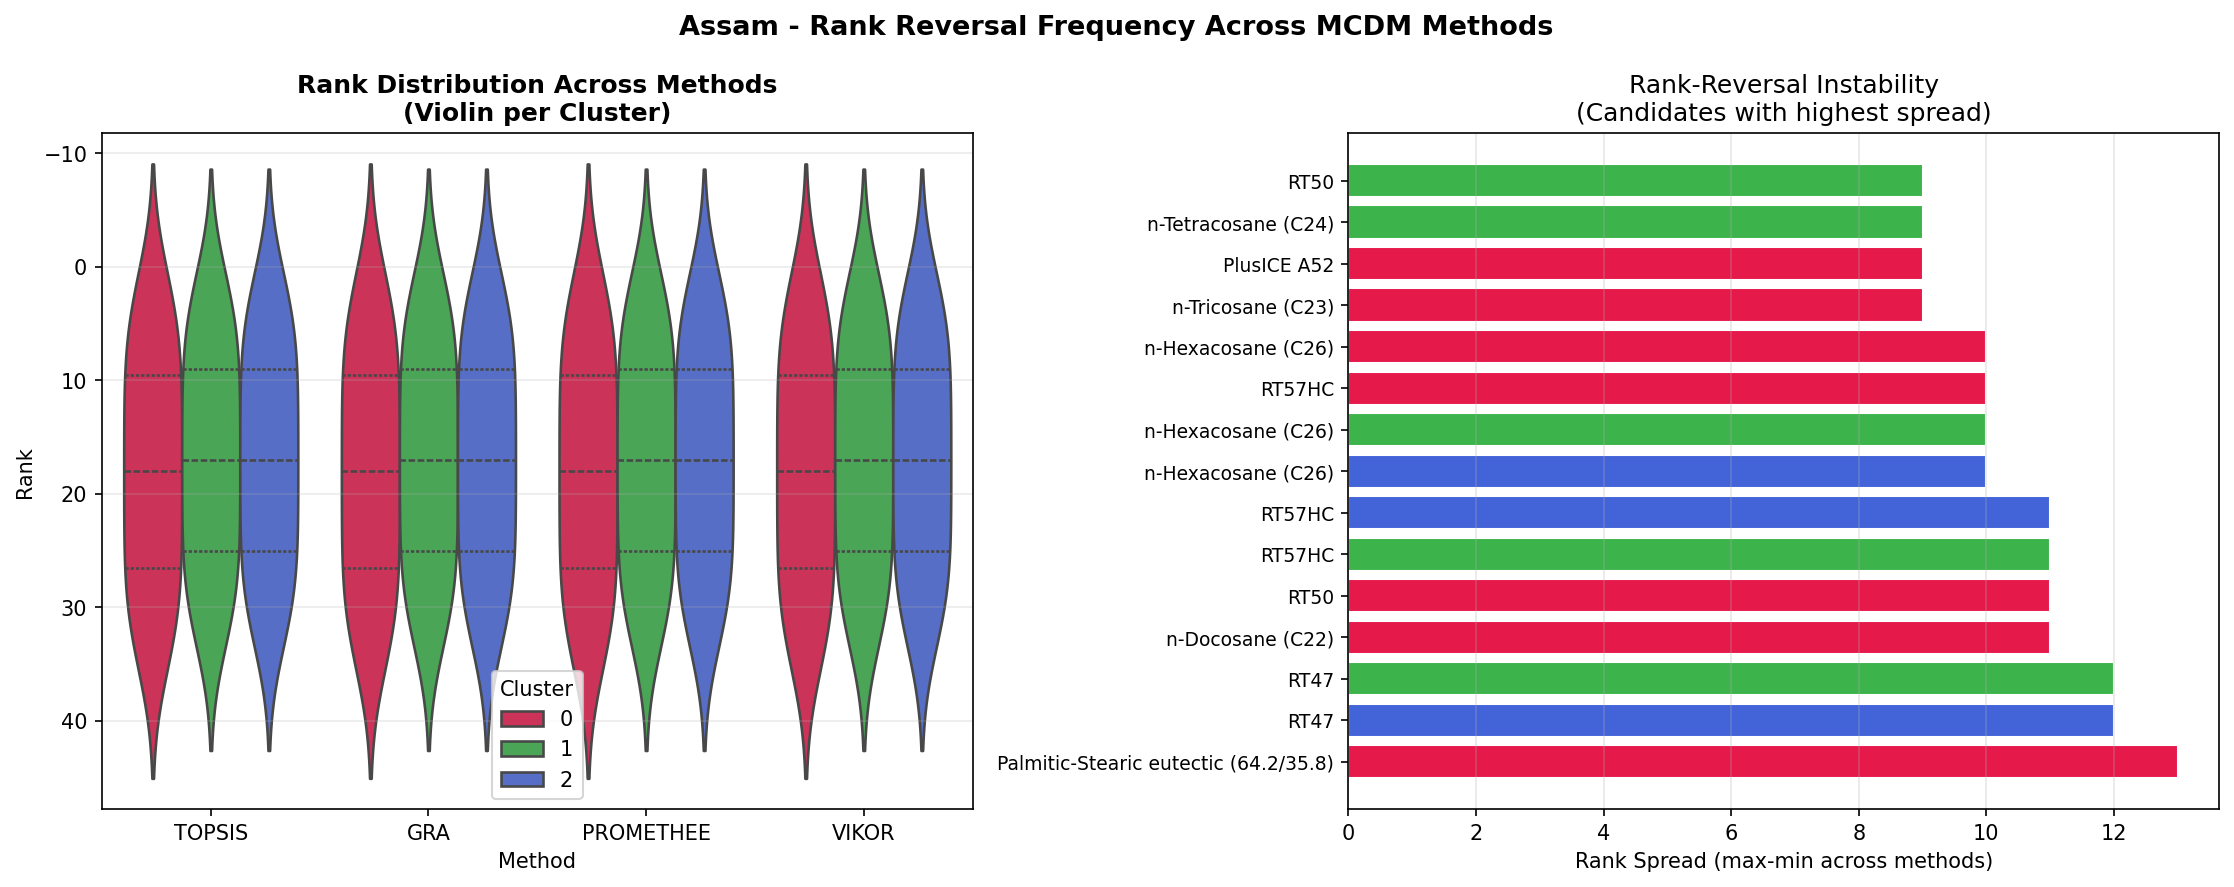
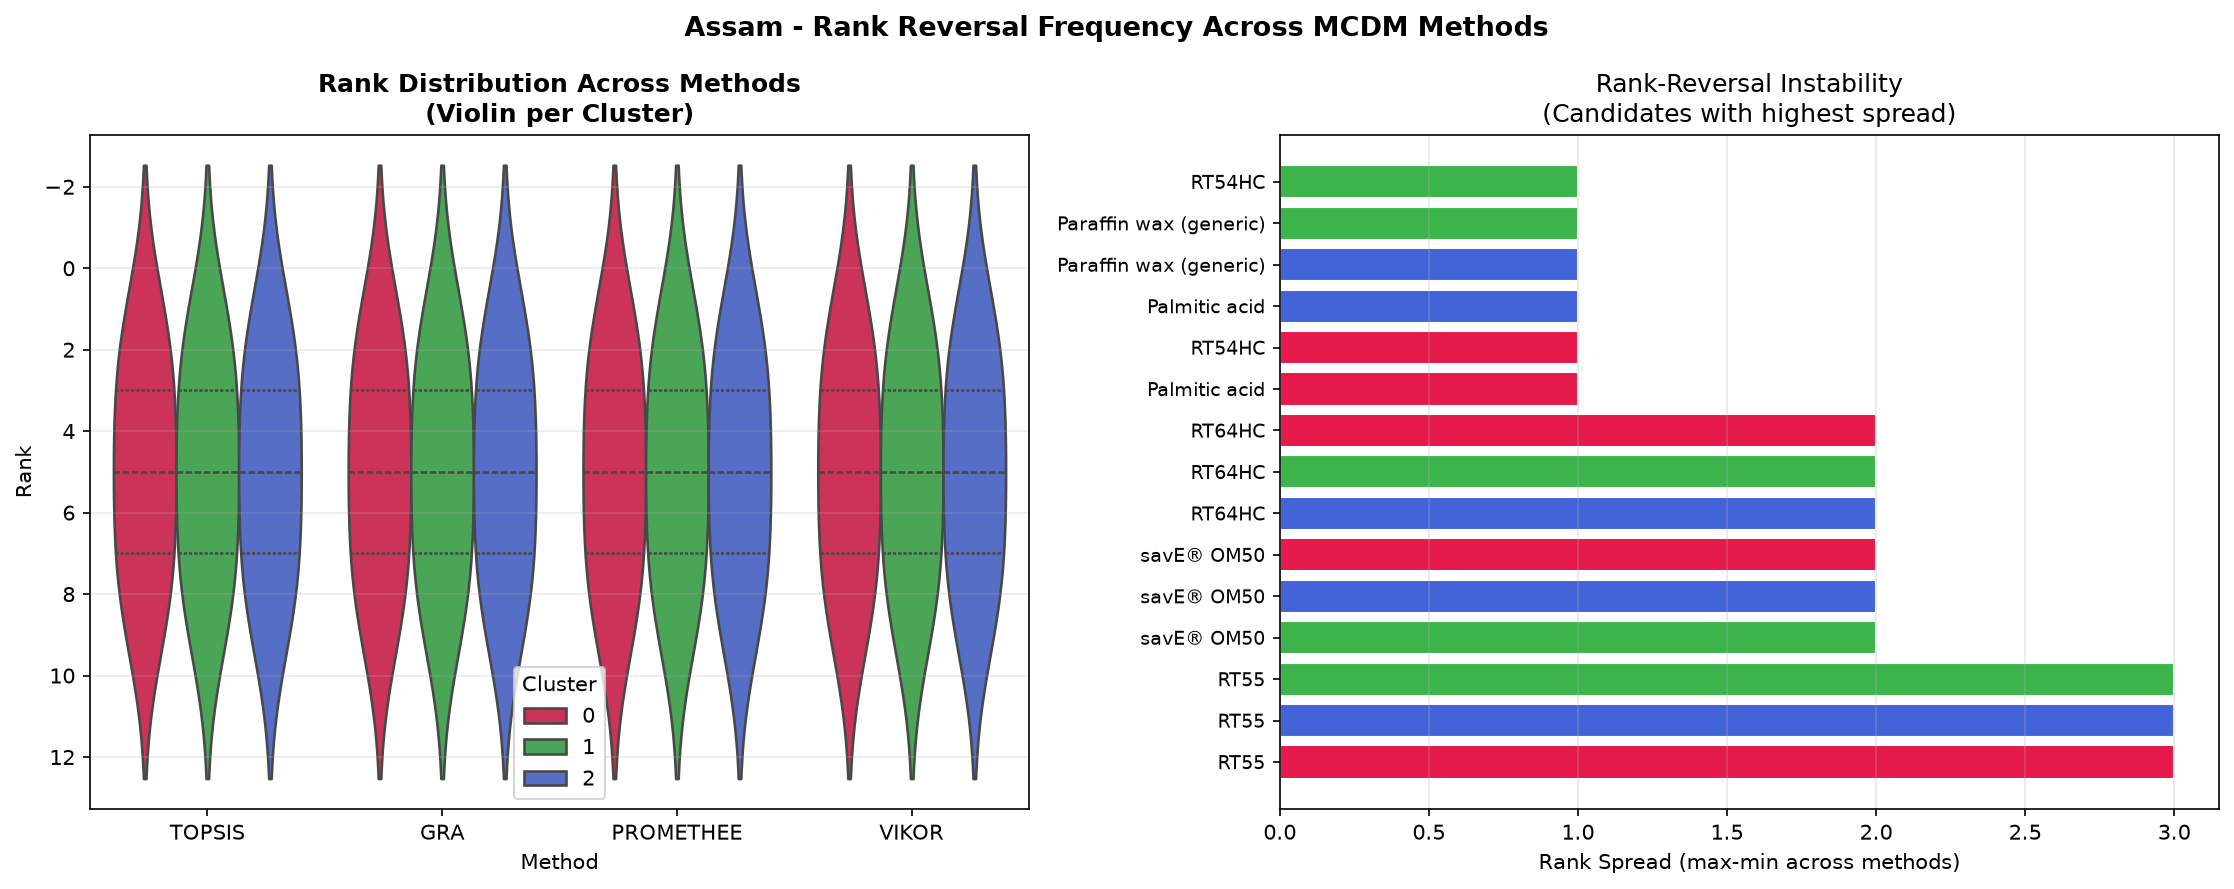
chore(plots): update Assam rank-reversal plot

diff --git a/public/plots/assam/10_rank_reversal_violin_interactive.html b/public/plots/assam/10_rank_reversal_violin_interactive.html
@@ -6,6 +6,6 @@
 </head>
 <body>
     <div style="height:100%; width:100%;">                        <script>window.PlotlyConfig = {MathJaxConfig: 'local'};</script>
[1 lines of base64/hex data omitted]
+        <script charset="utf-8" src="https://cdn.plot.ly/plotly-4.0.0.min.js" integrity="sha256-FEYfO0yRyLtZCpnW0Dw/0DHKQO7Afrq3ml4+rBB818o=" crossorigin="anonymous"></script>                <div id="f57c498c-f7b7-42a6-baa4-5ea0f8b99e32" class="plotly-graph-div" style="height:100%; width:100%;"></div>            <script>                window.PLOTLYENV=window.PLOTLYENV || {};                                if (document.getElementById("f57c498c-f7b7-42a6-baa4-5ea0f8b99e32")) {                    Plotly.newPlot(                        "f57c498c-f7b7-42a6-baa4-5ea0f8b99e32",                        [{"alignmentgroup":"True","box":{"visible":true},"hovertemplate":"Cluster=0\u003cbr\u003eMethod=%{x}\u003cbr\u003eRank=%{y}\u003cextra\u003e\u003c\u002fextra\u003e","legendgroup":"0","marker":{"color":"rgb(228,26,28)"},"name":"0","offsetgroup":"0","orientation":"v","points":"all","scalegroup":"True","showlegend":true,"x":["TOPSIS","TOPSIS","TOPSIS","TOPSIS","TOPSIS","TOPSIS","TOPSIS","TOPSIS","TOPSIS","GRA","GRA","GRA","GRA","GRA","GRA","GRA","GRA","GRA","PROMETHEE","PROMETHEE","PROMETHEE","PROMETHEE","PROMETHEE","PROMETHEE","PROMETHEE","PROMETHEE","PROMETHEE","VIKOR","VIKOR","VIKOR","VIKOR","VIKOR","VIKOR","VIKOR","VIKOR","VIKOR"],"x0":" ","xaxis":"x","y":{"dtype":"i1","bdata":"AQMEAgUGBwgJAgQBAwUGBwgJAQIDBAUGBwgJAQIDBAUGBwkI"},"y0":" ","yaxis":"y","type":"violin"},{"alignmentgroup":"True","box":{"visible":true},"hovertemplate":"Cluster=1\u003cbr\u003eMethod=%{x}\u003cbr\u003eRank=%{y}\u003cextra\u003e\u003c\u002fextra\u003e","legendgroup":"1","marker":{"color":"rgb(55,126,184)"},"name":"1","offsetgroup":"1","orientation":"v","points":"all","scalegroup":"True","showlegend":true,"x":["TOPSIS","TOPSIS","TOPSIS","TOPSIS","TOPSIS","TOPSIS","TOPSIS","TOPSIS","TOPSIS","GRA","GRA","GRA","GRA","GRA","GRA","GRA","GRA","GRA","PROMETHEE","PROMETHEE","PROMETHEE","PROMETHEE","PROMETHEE","PROMETHEE","PROMETHEE","PROMETHEE","PROMETHEE","VIKOR","VIKOR","VIKOR","VIKOR","VIKOR","VIKOR","VIKOR","VIKOR","VIKOR"],"x0":" ","xaxis":"x","y":{"dtype":"i1","bdata":"AQMEAgUGBwgJAgQBAwUGBwgJAQIDBAUGBwgJAQIDBAUGBwkI"},"y0":" ","yaxis":"y","type":"violin"},{"alignmentgroup":"True","box":{"visible":true},"hovertemplate":"Cluster=2\u003cbr\u003eMethod=%{x}\u003cbr\u003eRank=%{y}\u003cextra\u003e\u003c\u002fextra\u003e","legendgroup":"2","marker":{"color":"rgb(77,175,74)"},"name":"2","offsetgroup":"2","orientation":"v","points":"all","scalegroup":"True","showlegend":true,"x":["TOPSIS","TOPSIS","TOPSIS","TOPSIS","TOPSIS","TOPSIS","TOPSIS","TOPSIS","TOPSIS","GRA","GRA","GRA","GRA","GRA","GRA","GRA","GRA","GRA","PROMETHEE","PROMETHEE","PROMETHEE","PROMETHEE","PROMETHEE","PROMETHEE","PROMETHEE","PROMETHEE","PROMETHEE","VIKOR","VIKOR","VIKOR","VIKOR","VIKOR","VIKOR","VIKOR","VIKOR","VIKOR"],"x0":" ","xaxis":"x","y":{"dtype":"i1","bdata":"AQMEAgUGBwgJAgQBAwUGBwgJAQIDBAUGBwgJAQIDBAUGBwkI"},"y0":" ","yaxis":"y","type":"violin"}],                        {"template":{"data":{"barpolar":[{"marker":{"line":{"color":"white","width":0.5},"pattern":{"fillmode":"overlay","size":10,"solidity":0.2}},"type":"barpolar"}],"bar":[{"error_x":{"color":"#2a3f5f"},"error_y":{"color":"#2a3f5f"},"marker":{"line":{"color":"white","width":0.5},"pattern":{"fillmode":"overlay","size":10,"solidity":0.2}},"type":"bar"}],"carpet":[{"aaxis":{"endlinecolor":"#2a3f5f","gridcolor":"#C8D4E3","linecolor":"#C8D4E3","minorgridcolor":"#C8D4E3","startlinecolor":"#2a3f5f"},"baxis":{"endlinecolor":"#2a3f5f","gridcolor":"#C8D4E3","linecolor":"#C8D4E3","minorgridcolor":"#C8D4E3","startlinecolor":"#2a3f5f"},"type":"carpet"}],"choropleth":[{"colorbar":{"outlinewidth":0,"ticks":""},"type":"choropleth"}],"contourcarpet":[{"colorbar":{"outlinewidth":0,"ticks":""},"type":"contourcarpet"}],"contour":[{"colorbar":{"outlinewidth":0,"ticks":""},"colorscale":[[0.0,"#0d0887"],[0.1111111111111111,"#46039f"],[0.2222222222222222,"#7201a8"],[0.3333333333333333,"#9c179e"],[0.4444444444444444,"#bd3786"],[0.5555555555555556,"#d8576b"],[0.6666666666666666,"#ed7953"],[0.7777777777777778,"#fb9f3a"],[0.8888888888888888,"#fdca26"],[1.0,"#f0f921"]],"type":"contour"}],"heatmap":[{"colorbar":{"outlinewidth":0,"ticks":""},"colorscale":[[0.0,"#0d0887"],[0.1111111111111111,"#46039f"],[0.2222222222222222,"#7201a8"],[0.3333333333333333,"#9c179e"],[0.4444444444444444,"#bd3786"],[0.5555555555555556,"#d8576b"],[0.6666666666666666,"#ed7953"],[0.7777777777777778,"#fb9f3a"],[0.8888888888888888,"#fdca26"],[1.0,"#f0f921"]],"type":"heatmap"}],"histogram2dcontour":[{"colorbar":{"outlinewidth":0,"ticks":""},"colorscale":[[0.0,"#0d0887"],[0.1111111111111111,"#46039f"],[0.2222222222222222,"#7201a8"],[0.3333333333333333,"#9c179e"],[0.4444444444444444,"#bd3786"],[0.5555555555555556,"#d8576b"],[0.6666666666666666,"#ed7953"],[0.7777777777777778,"#fb9f3a"],[0.8888888888888888,"#fdca26"],[1.0,"#f0f921"]],"type":"histogram2dcontour"}],"histogram2d":[{"colorbar":{"outlinewidth":0,"ticks":""},"colorscale":[[0.0,"#0d0887"],[0.1111111111111111,"#46039f"],[0.2222222222222222,"#7201a8"],[0.3333333333333333,"#9c179e"],[0.4444444444444444,"#bd3786"],[0.5555555555555556,"#d8576b"],[0.6666666666666666,"#ed7953"],[0.7777777777777778,"#fb9f3a"],[0.8888888888888888,"#fdca26"],[1.0,"#f0f921"]],"type":"histogram2d"}],"histogram":[{"marker":{"pattern":{"fillmode":"overlay","size":10,"solidity":0.2}},"type":"histogram"}],"mesh3d":[{"colorbar":{"outlinewidth":0,"ticks":""},"type":"mesh3d"}],"parcoords":[{"line":{"colorbar":{"outlinewidth":0,"ticks":""}},"type":"parcoords"}],"pie":[{"automargin":true,"type":"pie"}],"scatter3d":[{"line":{"colorbar":{"outlinewidth":0,"ticks":""}},"marker":{"colorbar":{"outlinewidth":0,"ticks":""}},"type":"scatter3d"}],"scattercarpet":[{"marker":{"colorbar":{"outlinewidth":0,"ticks":""}},"type":"scattercarpet"}],"scattergeo":[{"marker":{"colorbar":{"outlinewidth":0,"ticks":""}},"type":"scattergeo"}],"scattergl":[{"marker":{"colorbar":{"outlinewidth":0,"ticks":""}},"type":"scattergl"}],"scattermap":[{"marker":{"colorbar":{"outlinewidth":0,"ticks":""}},"type":"scattermap"}],"scatterpolargl":[{"marker":{"colorbar":{"outlinewidth":0,"ticks":""}},"type":"scatterpolargl"}],"scatterpolar":[{"marker":{"colorbar":{"outlinewidth":0,"ticks":""}},"type":"scatterpolar"}],"scatter":[{"fillpattern":{"fillmode":"overlay","size":10,"solidity":0.2},"type":"scatter"}],"scatterternary":[{"marker":{"colorbar":{"outlinewidth":0,"ticks":""}},"type":"scatterternary"}],"surface":[{"colorbar":{"outlinewidth":0,"ticks":""},"colorscale":[[0.0,"#0d0887"],[0.1111111111111111,"#46039f"],[0.2222222222222222,"#7201a8"],[0.3333333333333333,"#9c179e"],[0.4444444444444444,"#bd3786"],[0.5555555555555556,"#d8576b"],[0.6666666666666666,"#ed7953"],[0.7777777777777778,"#fb9f3a"],[0.8888888888888888,"#fdca26"],[1.0,"#f0f921"]],"type":"surface"}],"table":[{"cells":{"fill":{"color":"#EBF0F8"},"line":{"color":"white"}},"header":{"fill":{"color":"#C8D4E3"},"line":{"color":"white"}},"type":"table"}]},"layout":{"annotationdefaults":{"arrowcolor":"#2a3f5f","arrowhead":0,"arrowwidth":1},"autotypenumbers":"strict","coloraxis":{"colorbar":{"outlinewidth":0,"ticks":""}},"colorscale":{"diverging":[[0,"#8e0152"],[0.1,"#c51b7d"],[0.2,"#de77ae"],[0.3,"#f1b6da"],[0.4,"#fde0ef"],[0.5,"#f7f7f7"],[0.6,"#e6f5d0"],[0.7,"#b8e186"],[0.8,"#7fbc41"],[0.9,"#4d9221"],[1,"#276419"]],"sequential":[[0.0,"#0d0887"],[0.1111111111111111,"#46039f"],[0.2222222222222222,"#7201a8"],[0.3333333333333333,"#9c179e"],[0.4444444444444444,"#bd3786"],[0.5555555555555556,"#d8576b"],[0.6666666666666666,"#ed7953"],[0.7777777777777778,"#fb9f3a"],[0.8888888888888888,"#fdca26"],[1.0,"#f0f921"]],"sequentialminus":[[0.0,"#0d0887"],[0.1111111111111111,"#46039f"],[0.2222222222222222,"#7201a8"],[0.3333333333333333,"#9c179e"],[0.4444444444444444,"#bd3786"],[0.5555555555555556,"#d8576b"],[0.6666666666666666,"#ed7953"],[0.7777777777777778,"#fb9f3a"],[0.8888888888888888,"#fdca26"],[1.0,"#f0f921"]]},"colorway":["#636efa","#EF553B","#00cc96","#ab63fa","#FFA15A","#19d3f3","#FF6692","#B6E880","#FF97FF","#FECB52"],"font":{"color":"#2a3f5f"},"geo":{"bgcolor":"white","lakecolor":"white","landcolor":"white","showlakes":true,"showland":true,"subunitcolor":"#C8D4E3"},"hoverlabel":{"align":"left"},"hovermode":"closest","paper_bgcolor":"white","plot_bgcolor":"white","polar":{"angularaxis":{"gridcolor":"#EBF0F8","linecolor":"#EBF0F8","ticks":""},"bgcolor":"white","radialaxis":{"gridcolor":"#EBF0F8","linecolor":"#EBF0F8","ticks":""}},"scene":{"xaxis":{"backgroundcolor":"white","gridcolor":"#DFE8F3","gridwidth":2,"linecolor":"#EBF0F8","showbackground":true,"ticks":"","zerolinecolor":"#EBF0F8"},"yaxis":{"backgroundcolor":"white","gridcolor":"#DFE8F3","gridwidth":2,"linecolor":"#EBF0F8","showbackground":true,"ticks":"","zerolinecolor":"#EBF0F8"},"zaxis":{"backgroundcolor":"white","gridcolor":"#DFE8F3","gridwidth":2,"linecolor":"#EBF0F8","showbackground":true,"ticks":"","zerolinecolor":"#EBF0F8"}},"shapedefaults":{"line":{"color":"#2a3f5f"}},"ternary":{"aaxis":{"gridcolor":"#DFE8F3","linecolor":"#A2B1C6","ticks":""},"baxis":{"gridcolor":"#DFE8F3","linecolor":"#A2B1C6","ticks":""},"bgcolor":"white","caxis":{"gridcolor":"#DFE8F3","linecolor":"#A2B1C6","ticks":""}},"title":{"x":0.05},"xaxis":{"automargin":true,"gridcolor":"#EBF0F8","linecolor":"#EBF0F8","ticks":"","title":{"standoff":15},"zerolinecolor":"#EBF0F8","zerolinewidth":2},"yaxis":{"automargin":true,"gridcolor":"#EBF0F8","linecolor":"#EBF0F8","ticks":"","title":{"standoff":15},"zerolinecolor":"#EBF0F8","zerolinewidth":2}}},"xaxis":{"anchor":"y","domain":[0.0,1.0],"title":{"text":"Method"}},"yaxis":{"anchor":"x","domain":[0.0,1.0],"title":{"text":"Rank"},"autorange":"reversed"},"legend":{"title":{"text":"Cluster"},"tracegroupgap":0},"title":{"text":"Assam - Rank Reversal Violin Plot"},"violinmode":"group"},                        {"responsive": true}                    )                };            </script>        </div>
 </body>
 </html>
